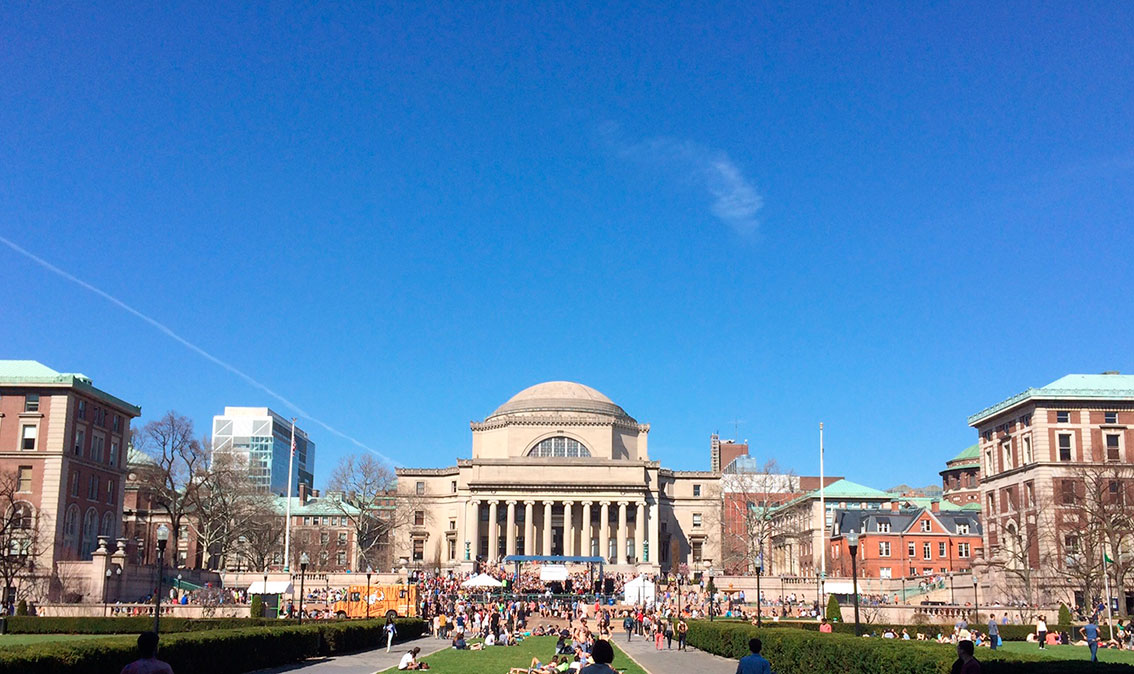
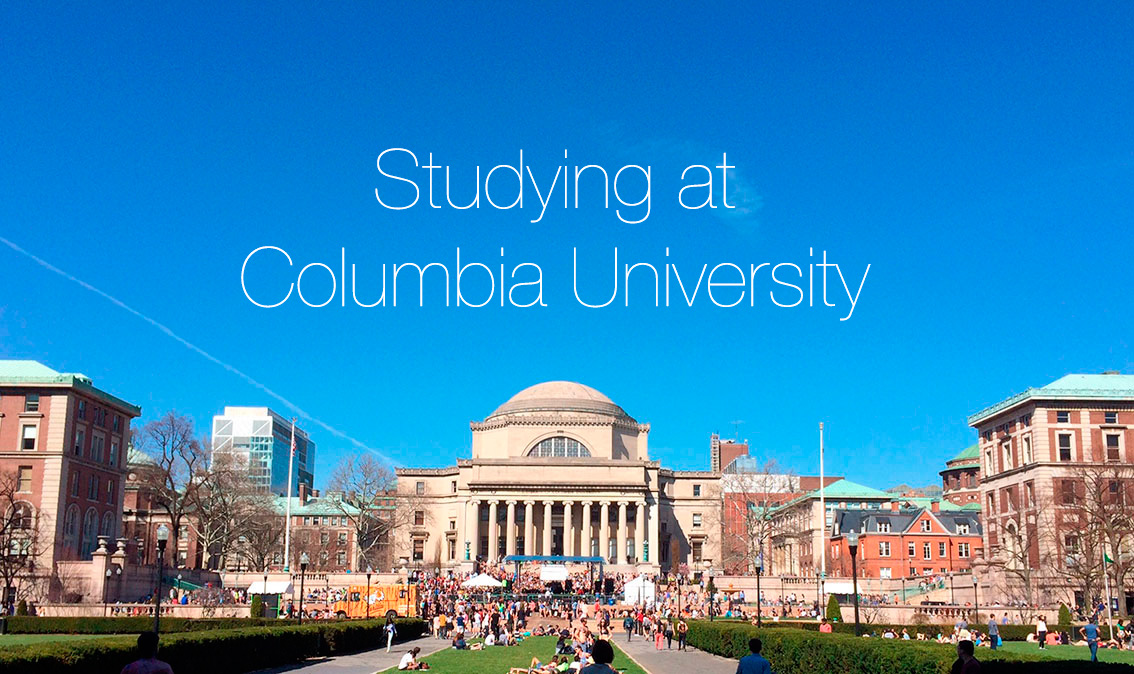
redesigned about section, minor spacing adjustment

diff --git a/css/style.css b/css/style.css
@@ -223,7 +223,7 @@ header .navcontainer {
 -------------------------------------------------- */
 
 .about {
-    padding-bottom: 260px;
+    padding-bottom: 700px;
     background-image:url(../images/columbia.jpg);
     background-repeat: no-repeat;
     background-size: 100%;
@@ -437,13 +437,13 @@ header .navcontainer {
 
 .medium {
     background-color: #fff;
-    margin-top: 50px;
-    margin-bottom: 50px;
+    margin-top: 100px;
+    margin-bottom: 100px;
 }
 
 .medium .desc {
     margin-top: 50px;
-    margin-bottom: 50px;
+    margin-bottom: 100px;
     font-weight: 100;
     font-size: 3em;
     font-family: "Helvetica Neue", sans-serif;
@@ -488,13 +488,13 @@ header .navcontainer {
 -------------------------------------------------- */
 
 .footer {
-    padding-top: 20px;
-    padding-bottom: 20px;
+    padding-top: 8px;
+    padding-bottom: 8px;
     background-color: #C3C0C3;
 }
 
 .footer .copyright {
     font-weight: 100;
-    font-size: 1.4em;
+    font-size: 1.3em;
     font-family: "Helvetica Neue", sans-serif;
 }

diff --git a/index.html b/index.html
@@ -63,7 +63,6 @@
 
 
   <div class="about"><a id="about"></a>
-    <center><div class="school">Studying at<br>Columbia University</div></center>
   </div>
 
 
@@ -103,8 +102,8 @@
 
 
   <div class="medium"><a id="medium"></a>
-    <div class="desc"><center>Read my personal blog</center></div>
-    <center><script async src="https://static.medium.com/embed.js"></script><a class="m-profile" href="https://medium.com/@raymondxu">Raymond Xu</a></center>
+    <div class="desc"><center>My personal blog</center></div>
+    <center><script async src="https://static.medium.com/embed.js"></script><a class="m-profile" data-width="100%" data-border="false" href="https://medium.com/@raymondxu">Raymond Xu</a></center>
   </div>
 
 
